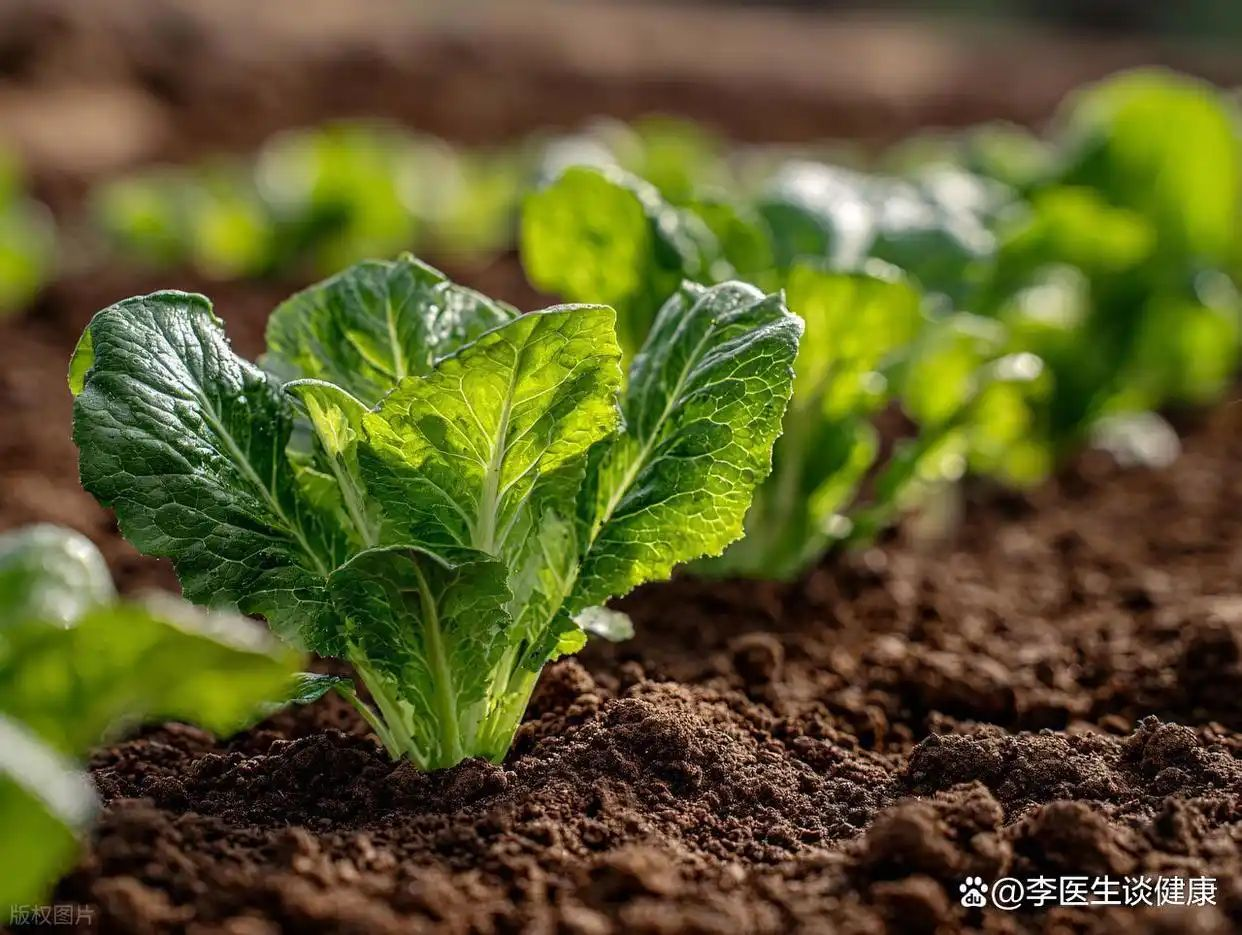
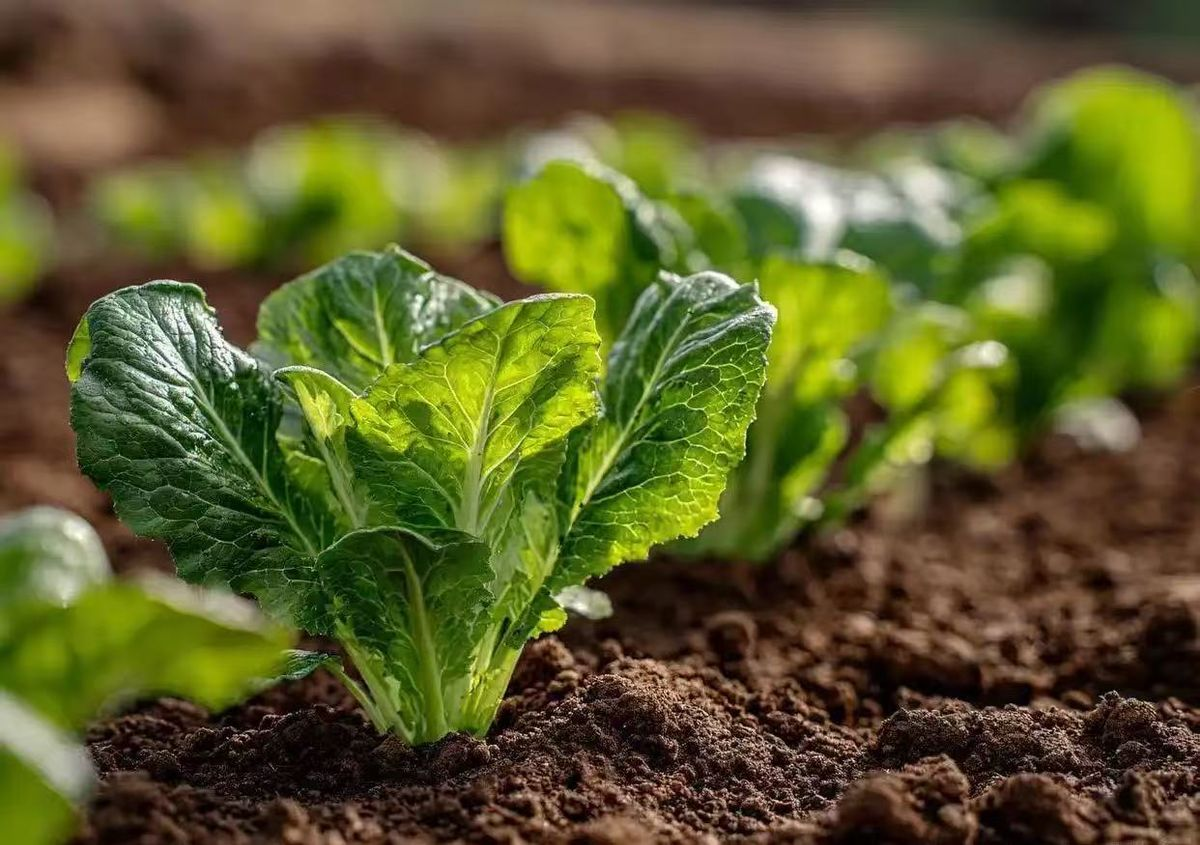
更换一朵云第二张照片为照片2目录指定图片

diff --git a/index.html b/index.html
@@ -690,15 +690,15 @@ function phHtml(s){
 }
 function imgHtml(s){
   if(!s.photos.length) return phHtml(s);
-  return '<img src="assets/photos/'+s.photos[0]+'.webp?v=16" alt="'+s.name+'" loading="lazy" decoding="async" onerror="if(this.dataset.fb){this.parentNode.innerHTML=window.__ph('+s.id+')}else{this.dataset.fb=1;this.src=this.src.replace(\'.webp\',\'.jpg\')}">';
+  return '<img src="assets/photos/'+s.photos[0]+'.webp?v=17" alt="'+s.name+'" loading="lazy" decoding="async" onerror="if(this.dataset.fb){this.parentNode.innerHTML=window.__ph('+s.id+')}else{this.dataset.fb=1;this.src=this.src.replace(\'.webp\',\'.jpg\')}">';
 }
 window.__ph = function(id){ return phHtml(SPOTS.find(x=>x.id===id)); };
 
 function cardGallery(s){
   if(!s.photos.length) return imgHtml(s);
   const slides = s.photos.map((p,i)=>{
-    if(i===0) return '<div class="card-slide"><img src="assets/photos/'+p+'.webp?v=16" alt="'+s.name+' 1" loading="lazy" decoding="async" onerror="if(this.dataset.fb){this.parentNode.innerHTML=window.__ph('+s.id+')}else{this.dataset.fb=1;this.src=this.src.replace(\'.webp\',\'.jpg\')}"></div>';
-    return '<div class="card-slide is-pending" data-src="assets/photos/'+p+'.webp?v=16" data-id="'+s.id+'" data-n="'+(i+1)+'" data-name="'+s.name+'"></div>';
+    if(i===0) return '<div class="card-slide"><img src="assets/photos/'+p+'.webp?v=17" alt="'+s.name+' 1" loading="lazy" decoding="async" onerror="if(this.dataset.fb){this.parentNode.innerHTML=window.__ph('+s.id+')}else{this.dataset.fb=1;this.src=this.src.replace(\'.webp\',\'.jpg\')}"></div>';
+    return '<div class="card-slide is-pending" data-src="assets/photos/'+p+'.webp?v=17" data-id="'+s.id+'" data-n="'+(i+1)+'" data-name="'+s.name+'"></div>';
   }).join('');
   const arrows = s.photos.length>1 ?
     '<button class="card-nav cn-prev" aria-label="上一张"><svg viewBox="0 0 24 24" fill="none" stroke="currentColor" stroke-linecap="round" stroke-linejoin="round"><path d="M15 6l-6 6 6 6"/></svg></button>'+
